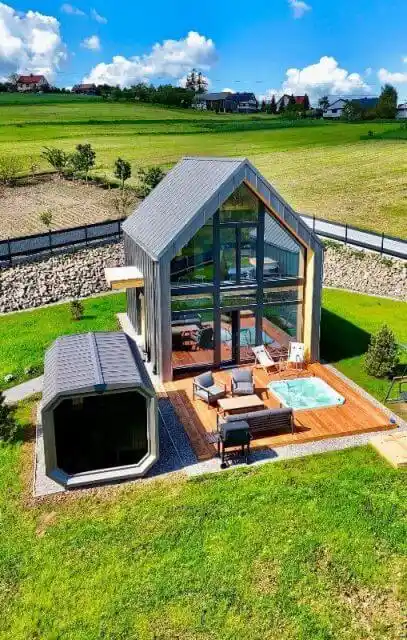
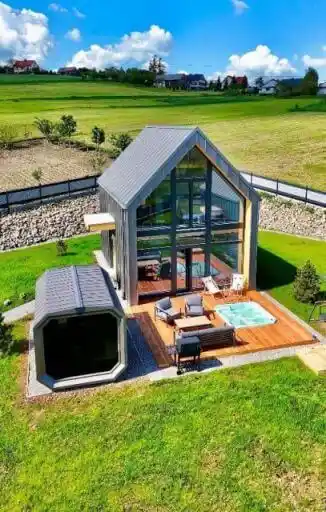
c

diff --git a/pages/_document.js b/pages/_document.js
@@ -15,19 +15,8 @@ export default class MyDocument extends Document {
             href="https://fonts.gstatic.com"
             crossOrigin="anonymous"
           />
-
           <link
-            href="https://fonts.googleapis.com/css2?family=Cormorant+Garamond:ital,wght@0,300;0,400;0,500;0,600;0,700;1,300;1,400;1,500&display=swap"
-            rel="stylesheet"
-          />
-
-          <link
-            href="https://fonts.googleapis.com/css2?family=Archivo:ital,wght@0,100;0,200;0,300;0,400;0,500;0,600;0,700;0,800;1,400;1,500;1,600;1,700&display=swap"
-            rel="stylesheet"
-          />
-
-          <link
-            href="https://fonts.googleapis.com/css2?family=Bitter:ital,wght@0,300;0,400;0,500;0,600;0,700;1,300&display=swap"
+            href="https://fonts.googleapis.com/css2?family=Archivo:ital,wght@0,400;0,500;0,600;0,700;1,400;1,500;1,600;1,700&family=Bitter:wght@0,400;0,500;0,600;0,700;0,800&family=Cormorant+Garamond:wght@0,400;0,500;0,600;0,700&display=swap"
             rel="stylesheet"
           />
 
